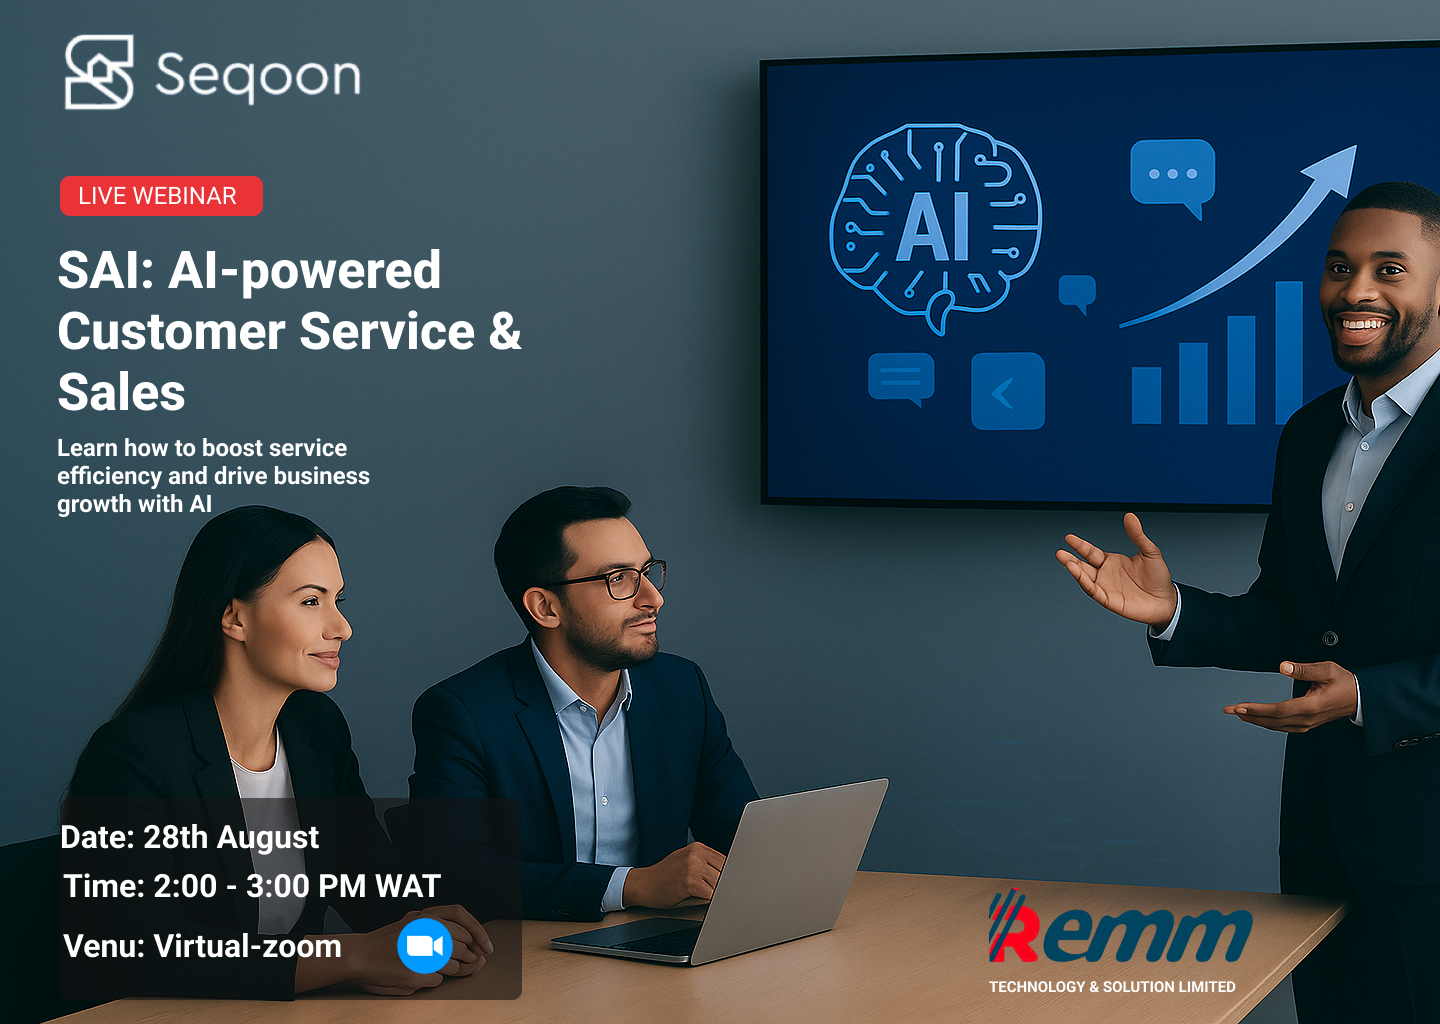
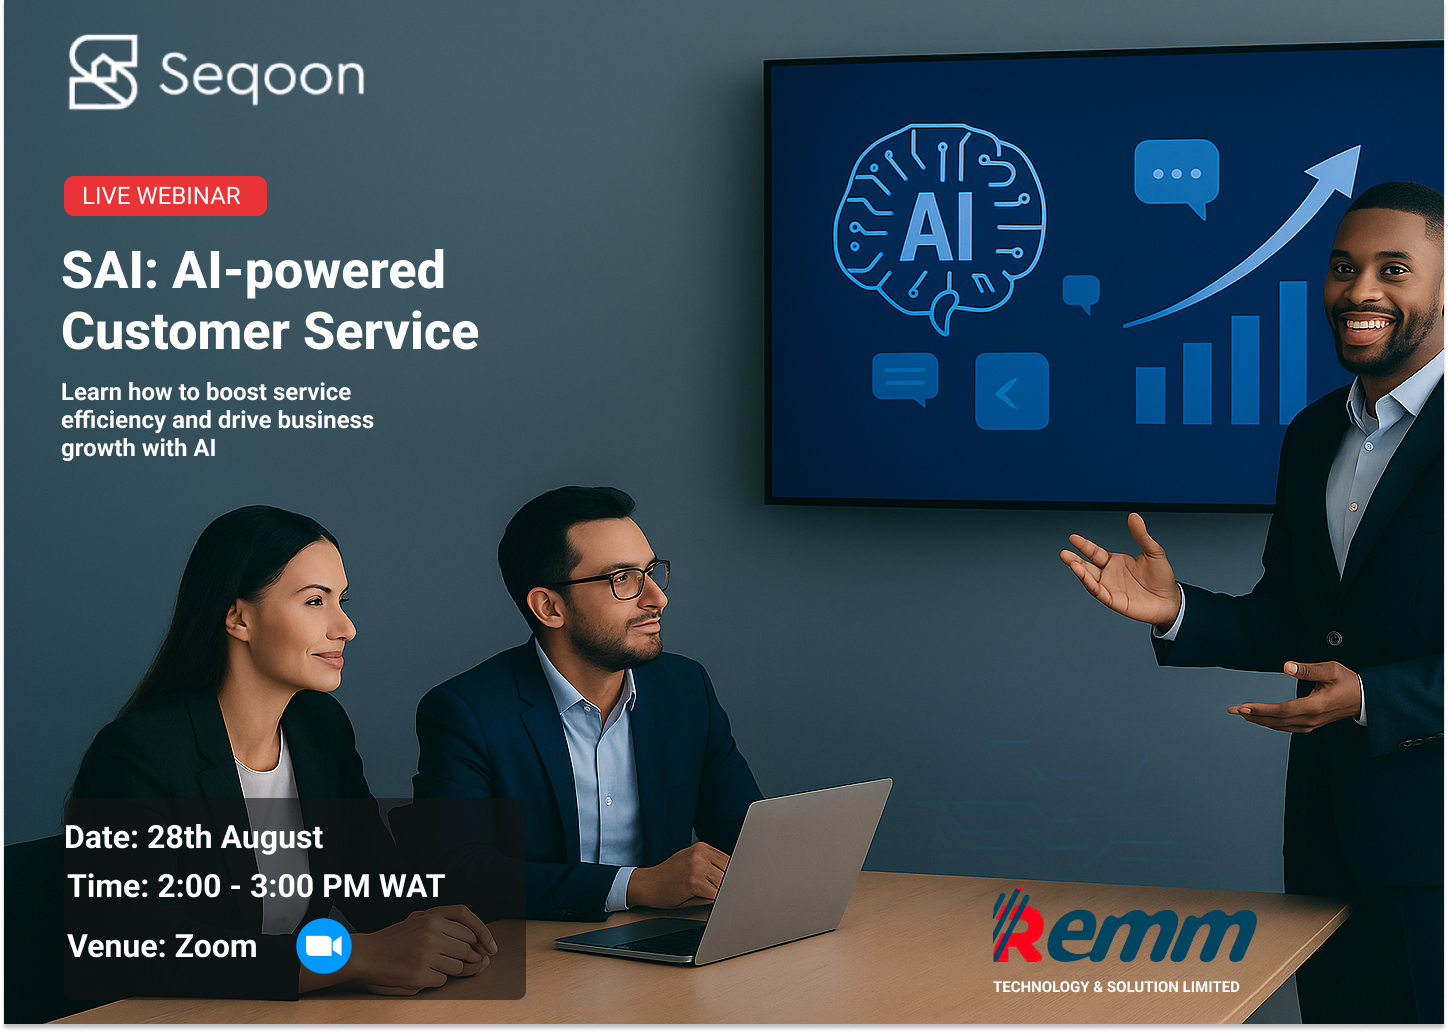
fix setup

diff --git a/index.html b/index.html
@@ -33,8 +33,7 @@
       class="text-base sm:text-lg md:text-xl lg:text-4xl font-bold text-center md:text-left leading-snug drop-shadow-lg px-4 py-2">
       <span class="text-red-500">SAI: AI-Powered</span>
       <span class="blue-text">Customer Service</span>
-      <span class="text-red-500">and</span>
-      <span class="blue-text">Sales Webinar</span>
+      <span class="blue-text">Webinar</span>
     </h1>
     <div class="w-full text-center">
     <!-- //// -->
